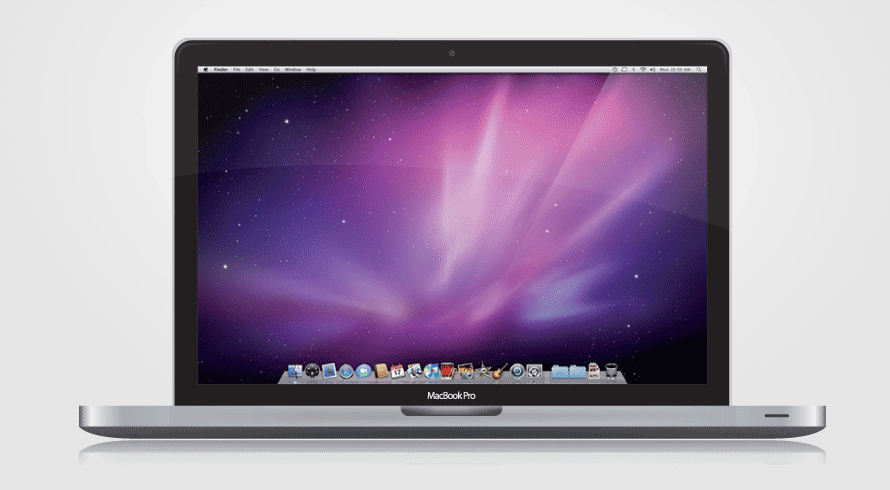
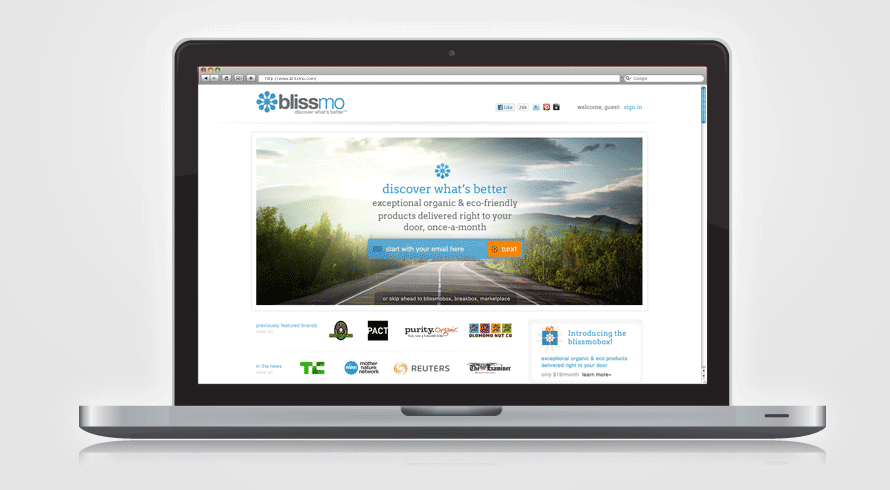
some slide2 slides
to be contimued

diff --git a/index.html b/index.html
@@ -278,8 +278,9 @@ This is a 11 inch by 17 inch concept map about the process of creating buildings
 
 		<div class="featured" id=first-slider> 
 			<img src="images/portfolio-images/1-showcase1/slider2/bmo-1.png" width="100%" />
-			<img src="images/showcase1/slider2/2opt.jpg" width="100%" />
-			<img src="images/showcase1/slider2/3opt.jpg" width="100%" />
+			<img src="images/portfolio-images/1-showcase1/slider2/bmo-2.png" width="100%" />
+			<img src="images/portfolio-images/1-showcase1/slider2/bmo-3.png" width="100%" />
+			<img src="images/portfolio-images/1-showcase1/slider2/bmo-4.png" width="100%" />
 			<img src="images/showcase1/slider2/4opt.jpg" width="100%" />
 			<img src="images/showcase1/slider2/5opt.jpg" width="100%" />
 		</div>
